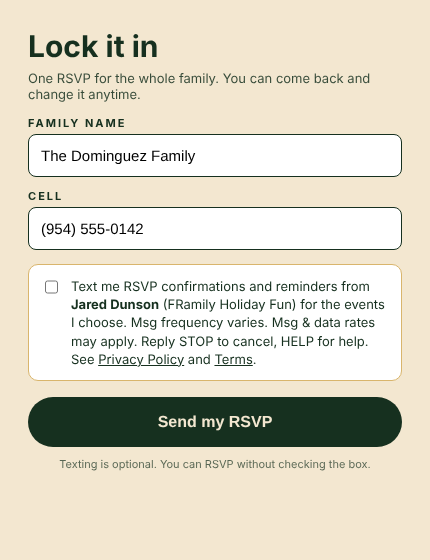
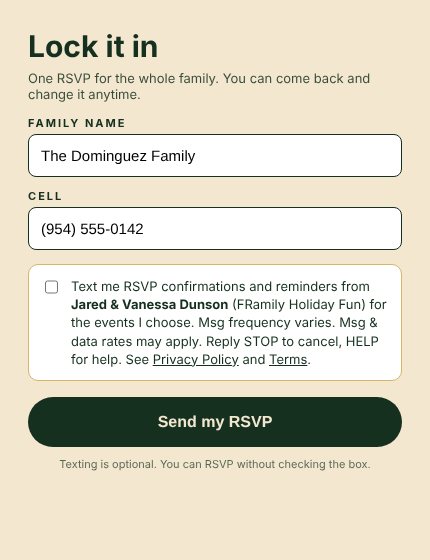
Use registered brand name Jared & Vanessa Dunson
Claude-Session: https://claude.ai/code/session_019VTiMTfsoTWVeMAoeQchAE

Changed region(s): [[0.1512, 0.5161, 0.907, 0.6679]]

diff --git a/terms.html b/terms.html
@@ -3,13 +3,13 @@
 <style>body{font-family:-apple-system,Segoe UI,Helvetica,Arial,sans-serif;max-width:720px;margin:40px auto;padding:0 20px;line-height:1.6;color:#222}h1{font-size:28px}h2{font-size:18px;margin-top:28px}small{color:#666}</style></head>
 <body>
 <h1>Terms &amp; Conditions</h1>
-<p><small>FRamily Holiday Fun · Brand: <strong>Jared Dunson</strong> · Effective November 9, 2026</small></p>
+<p><small>FRamily Holiday Fun · Brand: <strong>Jared & Vanessa Dunson</strong> · Effective November 9, 2026</small></p>
 <p>By using the FRamily Holiday Fun RSVP website you agree to these terms.</p>
 <h2>The events</h2>
-<p>The events listed are private, informal gatherings of family and friends organized by Jared Dunson. Venues (bowling alley, Topgolf, movie theater, game show venue, church) are operated by third parties with their own rules, waivers and policies. Costs shown are reimbursements for tickets, lanes or bays reserved on your behalf and are payable by Zelle to Jared Dunson. Reimbursements are non-refundable once a reservation has been paid to the venue, unless your spot is filled by another guest.</p>
+<p>The events listed are private, informal gatherings of family and friends organized by Jared & Vanessa Dunson. Venues (bowling alley, Topgolf, movie theater, game show venue, church) are operated by third parties with their own rules, waivers and policies. Costs shown are reimbursements for tickets, lanes or bays reserved on your behalf and are payable by Zelle to Jared Dunson (954-376-0188). Reimbursements are non-refundable once a reservation has been paid to the venue, unless your spot is filled by another guest.</p>
 <h2>SMS Terms</h2>
 <ul>
-<li><strong>Program:</strong> FRamily Holiday Fun event texts, sent by Jared Dunson.</li>
+<li><strong>Program:</strong> FRamily Holiday Fun event texts, sent by Jared & Vanessa Dunson.</li>
 <li><strong>What you'll receive:</strong> RSVP confirmations, event details, a reminder about two days before each event you RSVP to, and a short note the morning of. Occasionally a reply to a question you text us.</li>
 <li><strong>How to opt in:</strong> Enter your mobile number on the RSVP page and check the box agreeing to receive texts. Consent is not a condition of attending any event.</li>
 <li><strong>Frequency:</strong> Varies. Typically 1 to 3 messages per event you RSVP to.</li>

diff --git a/privacy.html b/privacy.html
@@ -3,8 +3,8 @@
 <style>body{font-family:-apple-system,Segoe UI,Helvetica,Arial,sans-serif;max-width:720px;margin:40px auto;padding:0 20px;line-height:1.6;color:#222}h1{font-size:28px}h2{font-size:18px;margin-top:28px}small{color:#666}</style></head>
 <body>
 <h1>Privacy Policy</h1>
-<p><small>FRamily Holiday Fun · Brand: <strong>Jared Dunson</strong> · Effective November 9, 2026</small></p>
-<p>This page describes how Jared Dunson ("we", "us") collects and uses information on the FRamily Holiday Fun RSVP website and related SMS program.</p>
+<p><small>FRamily Holiday Fun · Brand: <strong>Jared & Vanessa Dunson</strong> · Effective November 9, 2026</small></p>
+<p>This page describes how Jared & Vanessa Dunson ("we", "us") collects and uses information on the FRamily Holiday Fun RSVP website and related SMS program.</p>
 <h2>What we collect</h2>
 <ul>
 <li>Family or guest name</li>
@@ -22,7 +22,7 @@
 <p>If you check the SMS consent box on the RSVP page, we will send you text messages about the events you RSVP to. Message frequency varies, typically 1 to 3 messages per event. Message and data rates may apply. Reply <strong>STOP</strong> to cancel at any time. Reply <strong>HELP</strong> for help.</p>
 <p><strong>We do not sell or share your SMS opt-in data or personal information with third parties for marketing purposes.</strong> Phone numbers collected for SMS consent are used only to send the messages described above.</p>
 <h2>Who sees your information</h2>
-<p>Only the event hosts (Jared Dunson and family). Information is stored with our service providers (hosting and messaging) solely to operate the RSVP site and send messages. It is never sold or used for advertising.</p>
+<p>Only the event hosts (Jared & Vanessa Dunson and family). Information is stored with our service providers (hosting and messaging) solely to operate the RSVP site and send messages. It is never sold or used for advertising.</p>
 <h2>How long we keep it</h2>
 <p>RSVP and contact data is deleted after the event series ends, no later than February 28, 2027.</p>
 <h2>Your choices</h2>
